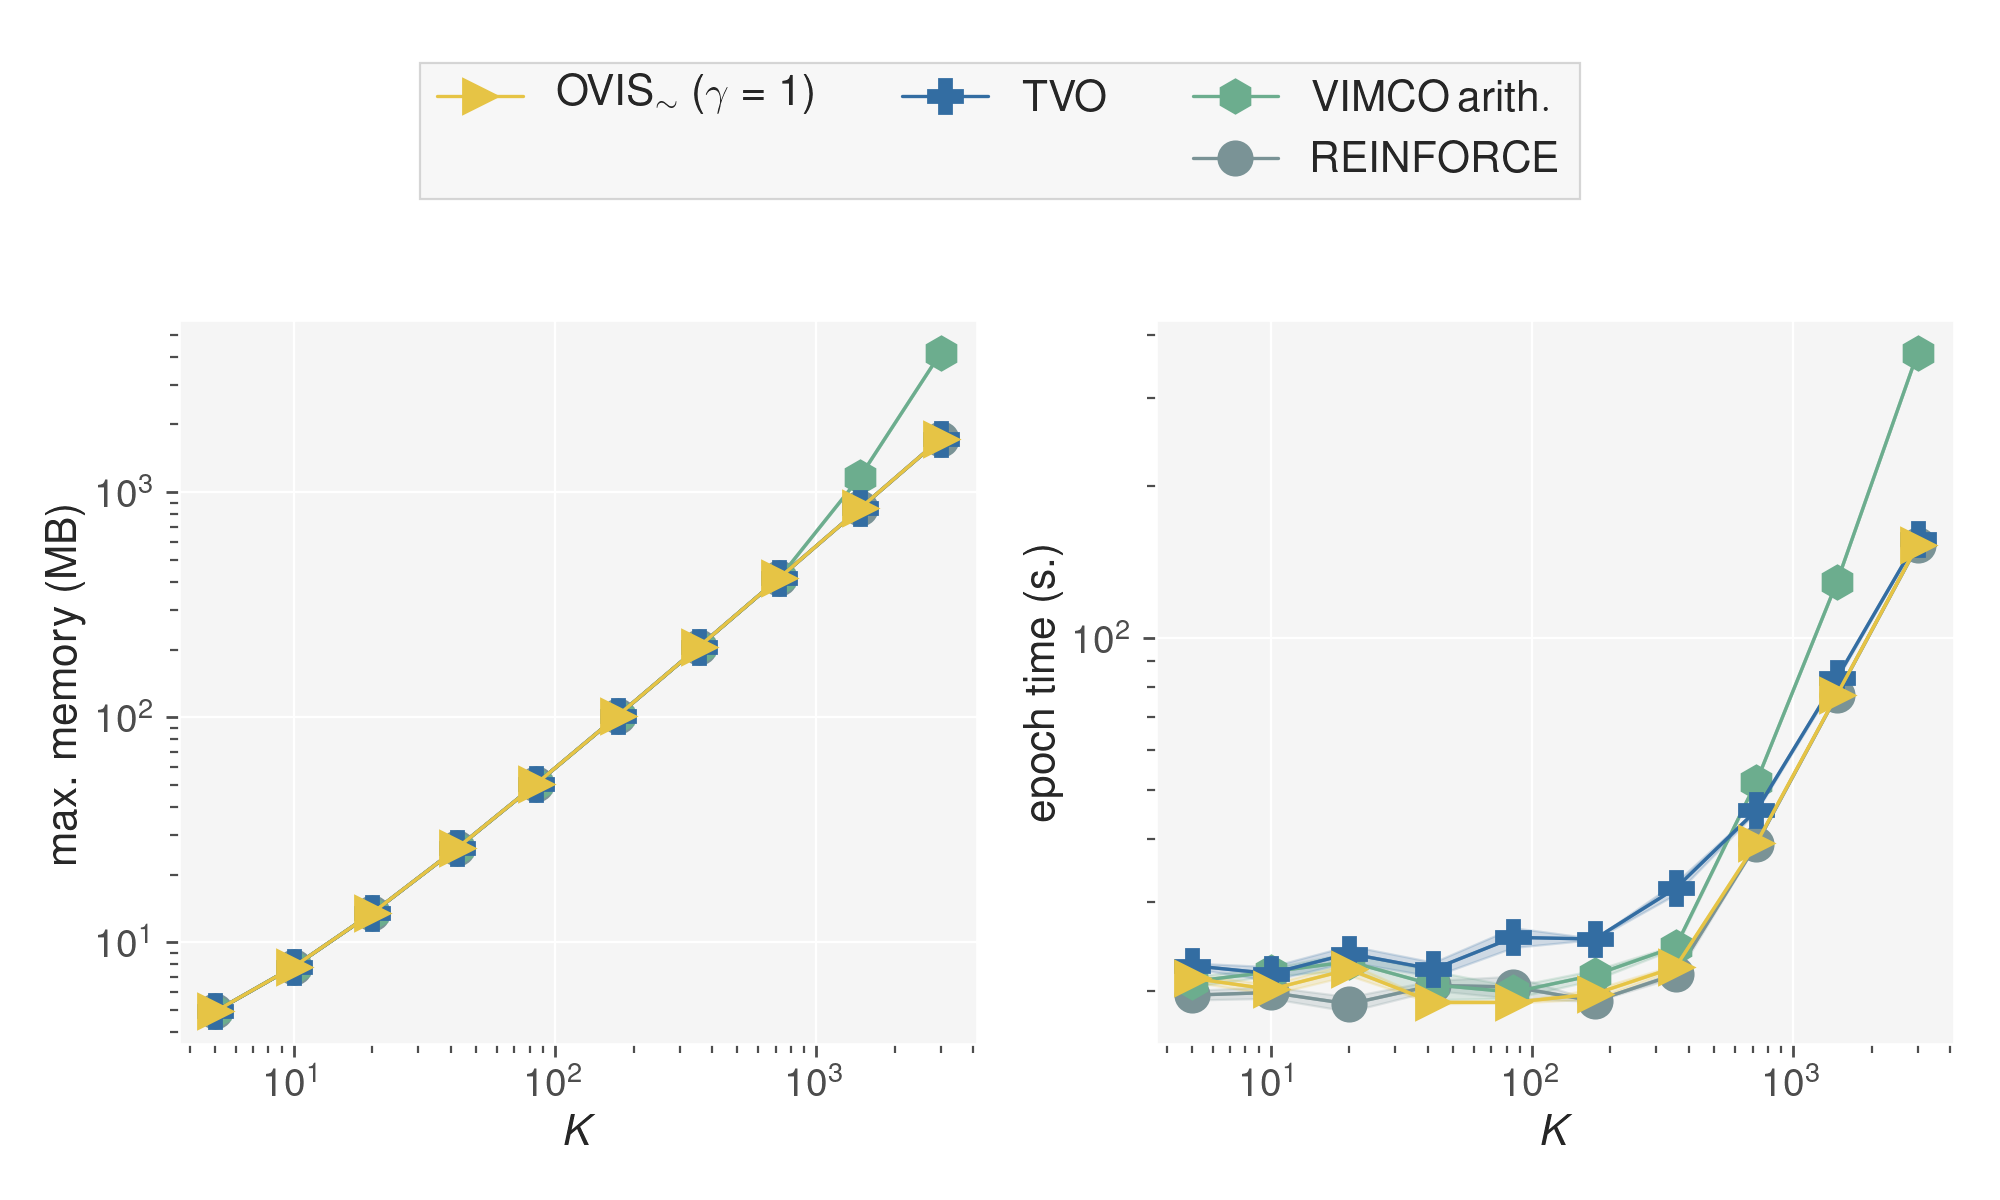
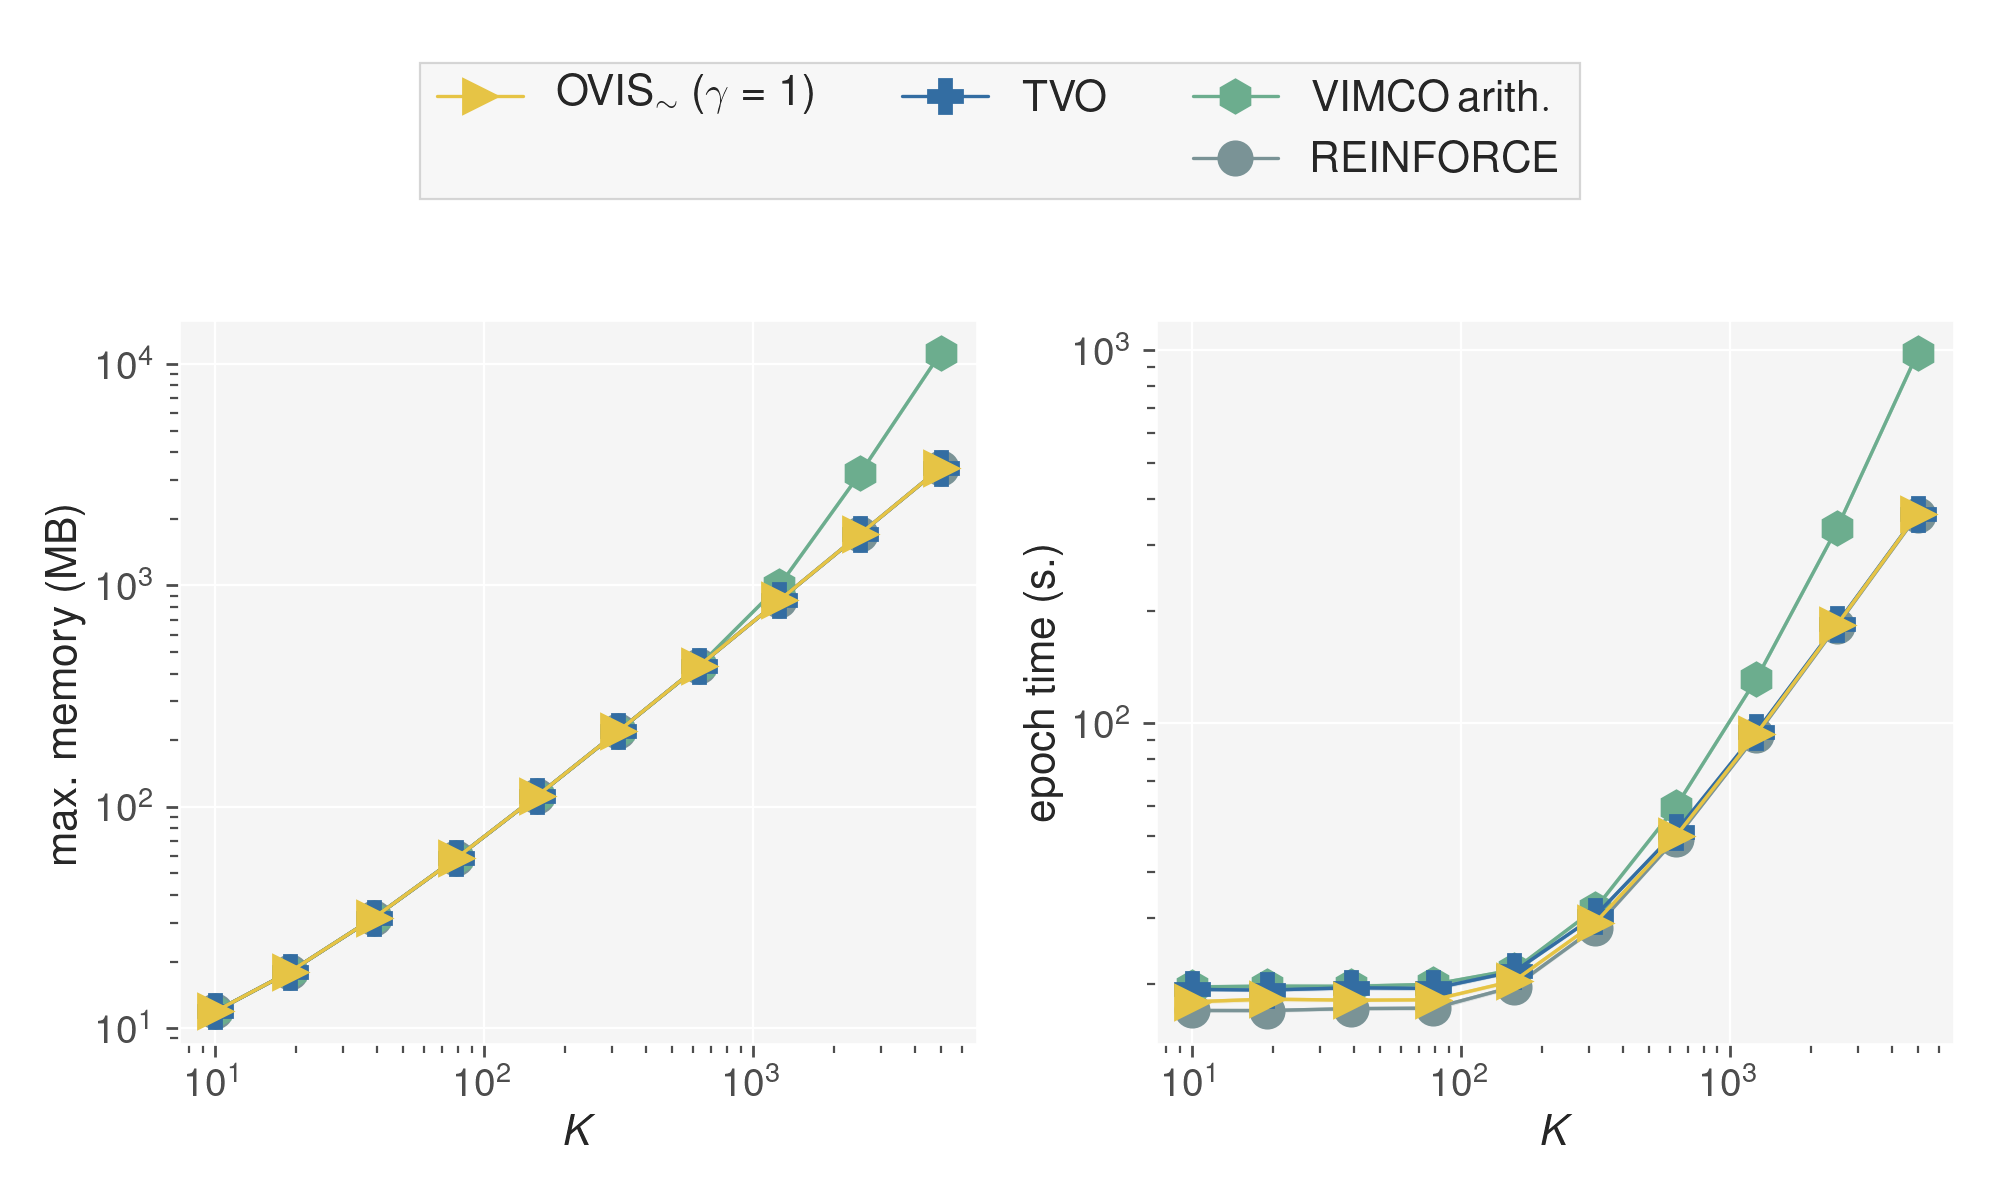
efficiency setup

diff --git a/ovis/training/arguments.py b/ovis/training/arguments.py
@@ -59,15 +59,15 @@ def add_gradient_analysis_args(parser: argparse.PARSER):
                         help='Minimum variance value')
 
 
-def add_model_architecture_args(parser: argparse.PARSER):
+def add_model_architecture_args(parser: argparse.PARSER, model='vae', nlayers=3, depth=3, N=32):
     """Arguments defining the model architecture"""
-    parser.add_argument('--model', default='vae',
+    parser.add_argument('--model', default=model,
                         help='[vae, conv-vae, gmm, gaussian-toy, sbm, gaussian-vae]')
     parser.add_argument('--hdim', default=64, type=int,
                         help='number of hidden units for each layer')
-    parser.add_argument('--nlayers', default=3, type=int,
+    parser.add_argument('--nlayers', default=nlayers, type=int,
                         help='number of hidden layers in each MLP')
-    parser.add_argument('--depth', default=3, type=int,
+    parser.add_argument('--depth', default=depth, type=int,
                         help='number of stochastic layers when using hierarchical models')
     parser.add_argument('--b_nlayers', default=1, type=int,
                         help='number of MLP hidden layers for the neural baseline')
@@ -77,7 +77,7 @@ def add_model_architecture_args(parser: argparse.PARSER):
                         help='dropout value')
     parser.add_argument('--prior', default='normal',
                         help='prior for the VAE model [normal, categorical, bernoulli]')
-    parser.add_argument('--N', default=32, type=int,
+    parser.add_argument('--N', default=N, type=int,
                         help='number of latent variables for each stochastic layer')
     parser.add_argument('--K', default=8, type=int,
                         help='number of categories when using a categorical prior')

diff --git a/measure_efficiency.py b/measure_efficiency.py
@@ -34,8 +34,8 @@ from ovis.utils.utils import Header, print_info
 def main():
     parser = argparse.ArgumentParser()
     add_base_args(parser, exp="efficiency", dataset="binmnist")
-    add_iw_sweep_args(parser, min=5, max=3e3, steps=10)
-    add_model_architecture_args(parser)
+    add_iw_sweep_args(parser, min=10, max=5e3, steps=10)
+    add_model_architecture_args(parser, model='sbm', depth=1, nlayers=0, N=200)
     parser.add_argument('--load', default='',
                         help='existing experiment path to load from')
     parser.add_argument('--num_runs', default=5, type=int,
